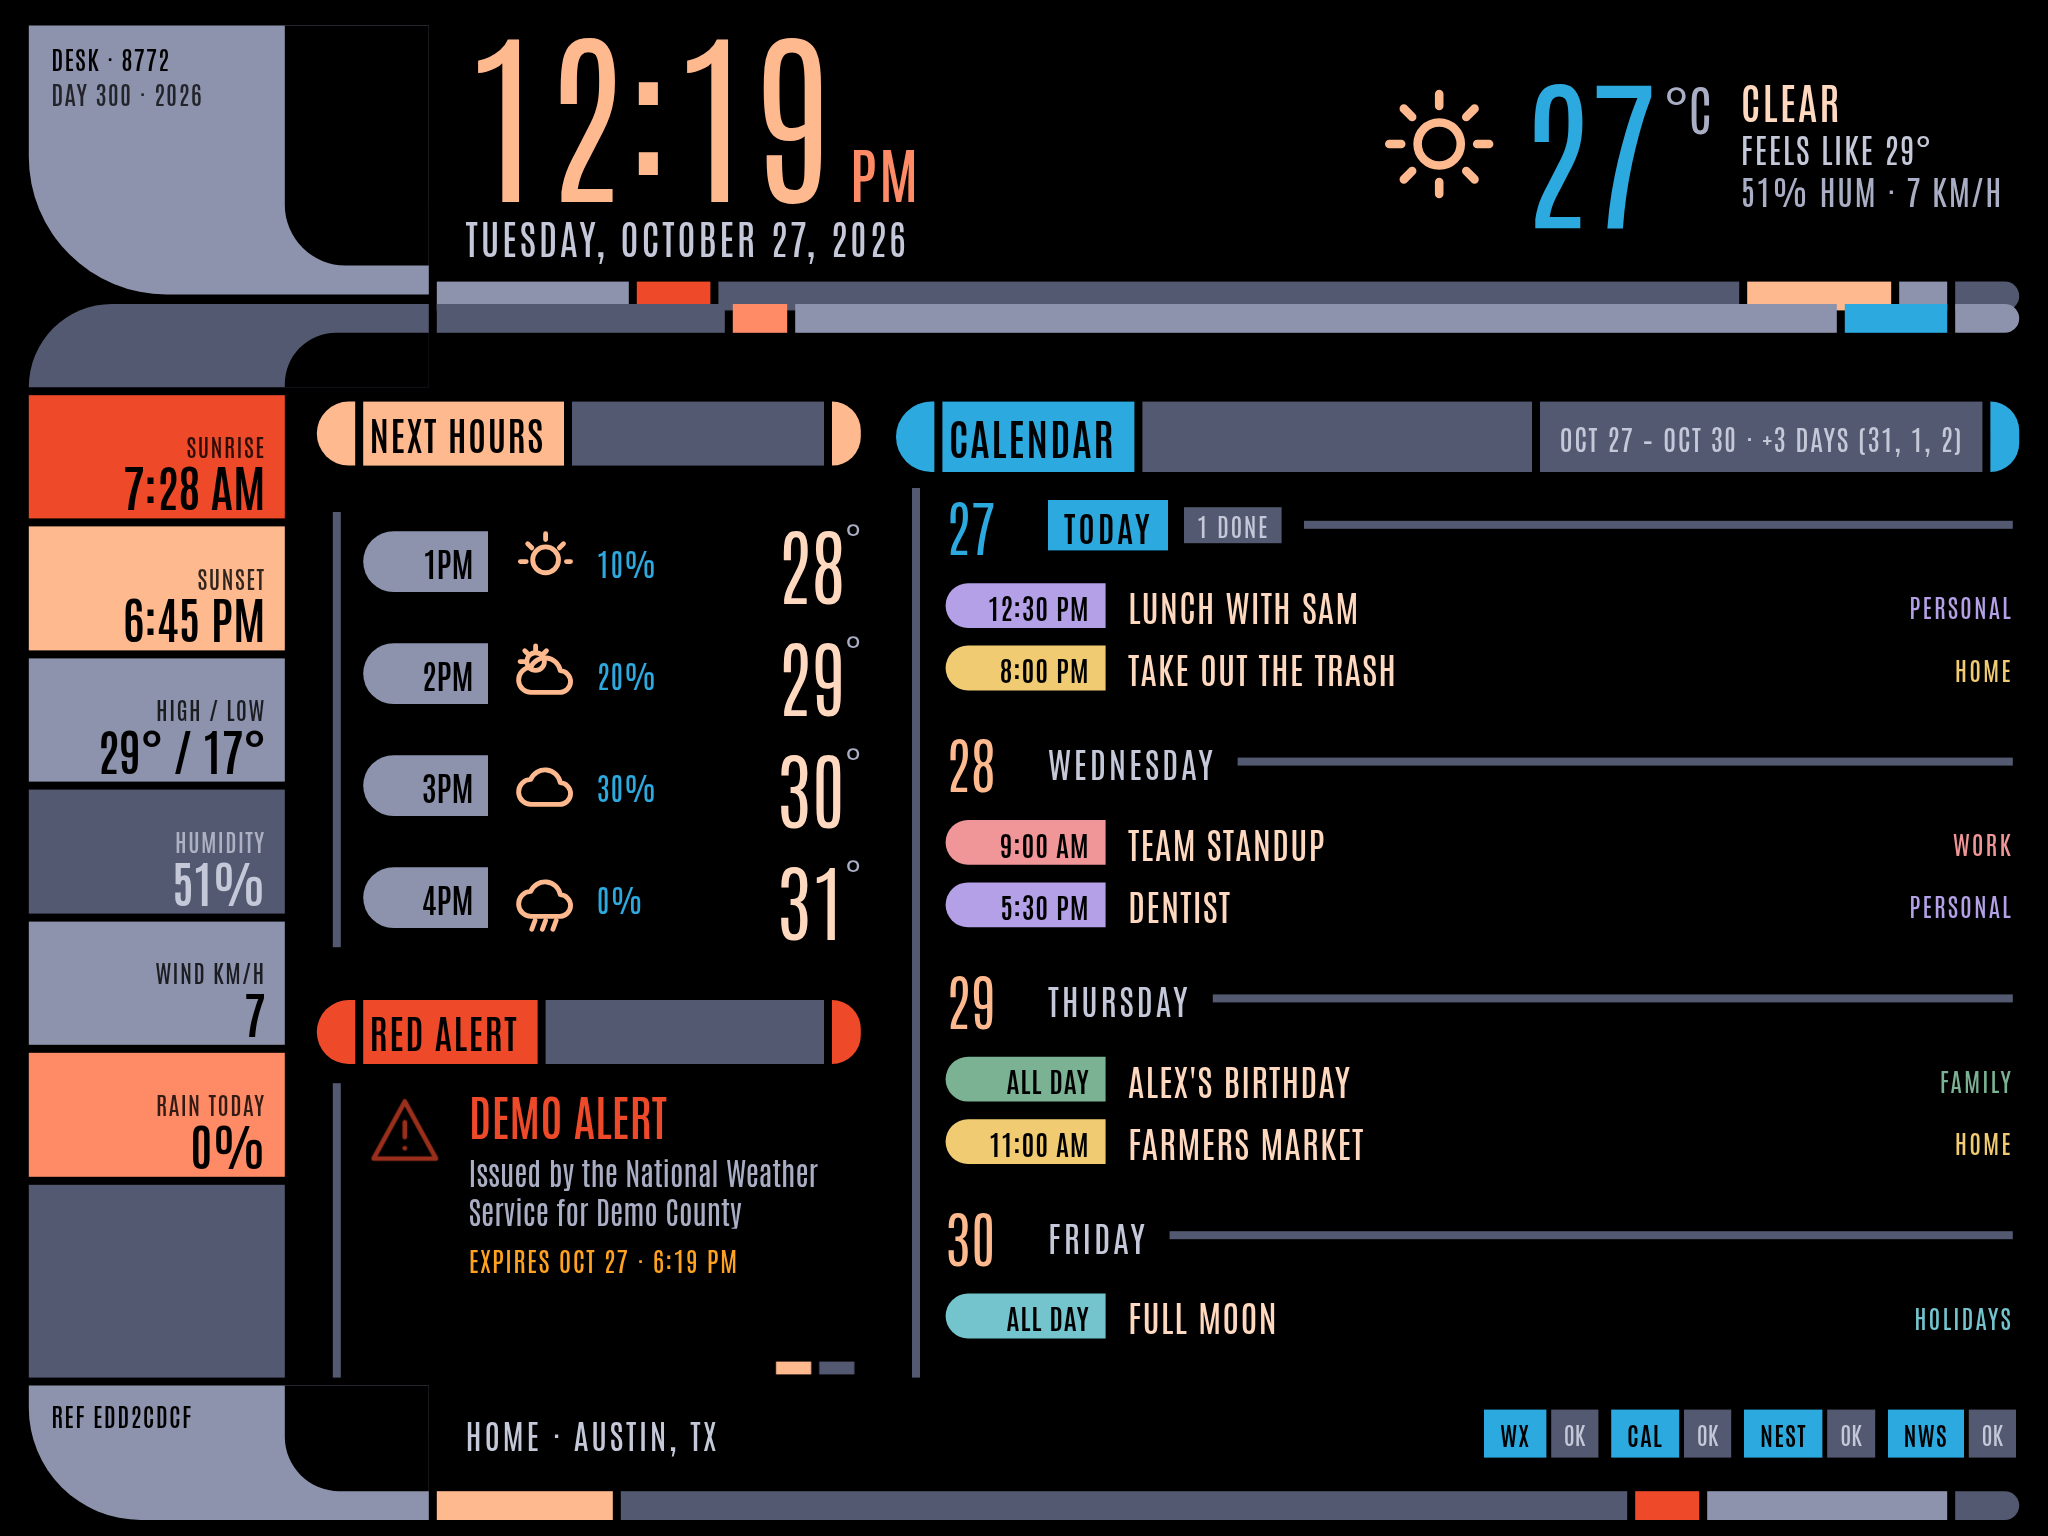
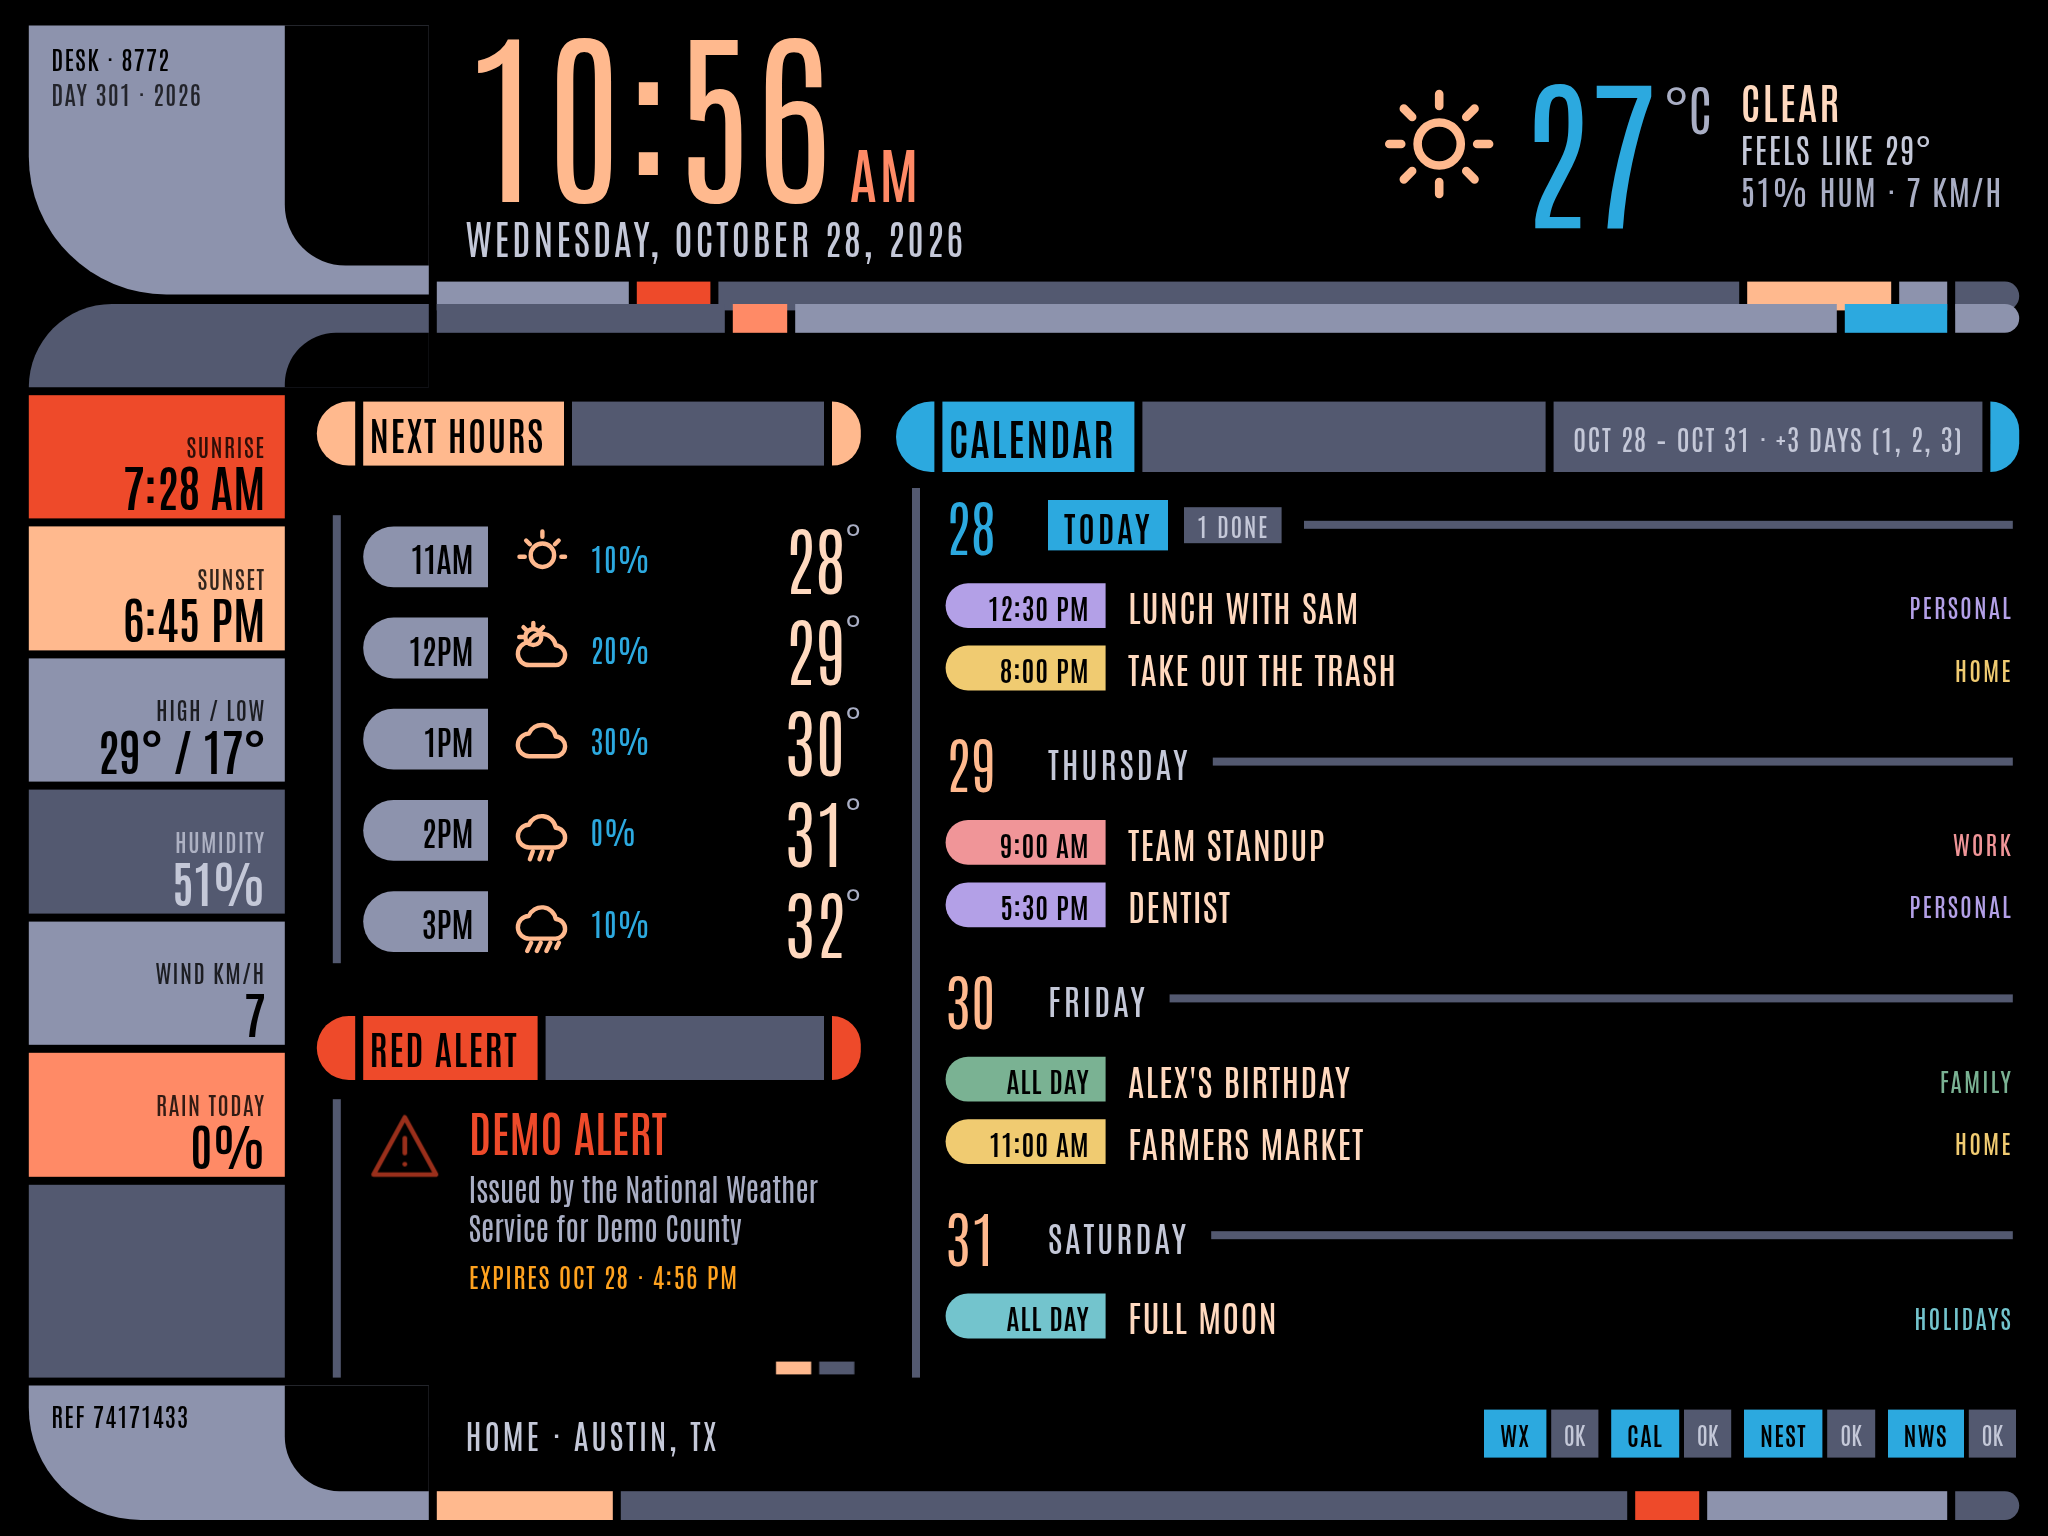
Proximas 5 horas: filas de 52 px y slot de 226 para que quepan sin modo compacto

diff --git a/web/style.css b/web/style.css
@@ -111,19 +111,19 @@ html.booting *,html.booting *::before,html.booting *::after{transition:none !imp
 /* ---------------------------------------------- columna izquierda */
 .col-left{width:340px;flex:none;display:flex;flex-direction:column;justify-content:space-between;min-height:0}
 .hourly{display:flex;flex-direction:column;margin:10px 0 0 10px;border-left:5px solid var(--gry);padding-left:14px}
-.hr{display:flex;align-items:center;height:62px;margin-bottom:8px}
+.hr{display:flex;align-items:center;height:52px;margin-bottom:5px}
 .hr:last-child{margin-bottom:0}
 .hr .h{
   width:78px;height:38px;flex:none;background:var(--lav);color:#000;font-size:21px;font-weight:600;
   display:flex;align-items:center;justify-content:flex-end;padding-right:9px;border-radius:19px 0 0 19px;
 }
-.hr .ico{width:44px;height:44px;margin-left:14px;color:var(--pch);flex:none}
+.hr .ico{width:40px;height:40px;margin-left:14px;color:var(--pch);flex:none}
 .hr .ico svg{width:100%;height:100%}
 .hr .rain{margin-left:10px;font-size:19px;color:var(--cyn);width:58px;letter-spacing:.03em}
-.hr .t{margin-left:auto;font-size:52px;font-weight:300;color:var(--ink);line-height:1}
+.hr .t{margin-left:auto;font-size:46px;font-weight:300;color:var(--ink);line-height:1}
 .hr .t i{font-style:normal;font-size:22px;color:var(--muted);vertical-align:top}
 
-.slot{position:relative;height:236px;flex:none;margin-top:14px}
+.slot{position:relative;height:226px;flex:none;margin-top:12px}
 .slot-view{position:absolute;top:0;left:0;right:0;bottom:0;opacity:0;transition:opacity .8s ease;display:flex;flex-direction:column}
 .slot-view.on{opacity:1}
 .a-col{background:var(--lav)}

diff --git a/web/index.html b/web/index.html
@@ -12,7 +12,7 @@
 <meta name="format-detection" content="telephone=no">
 <link rel="manifest" href="/manifest.webmanifest">
 <link rel="apple-touch-icon" href="/icon-180.png">
-<link rel="stylesheet" href="/style.css?v=lcars7">
+<link rel="stylesheet" href="/style.css?v=lcars9">
 </head>
 <body>
 <main class="stage" id="stage">
@@ -145,6 +145,6 @@
   </section>
 </main>
 
-<script src="/app.js?v=lcars7"></script>
+<script src="/app.js?v=lcars9"></script>
 </body>
 </html>

diff --git a/README.md b/README.md
@@ -25,7 +25,7 @@ estándar, sin dependencias) y el iPad solo abre una URL.
   humedad y viento (Open-Meteo, sin API key).
 - **Barra lateral**: amanecer, atardecer, máxima/mínima, humedad, viento y lluvia
   del día.
-- **Próximas 4 horas** con icono, probabilidad de lluvia y temperatura.
+- **Próximas 5 horas** con icono, probabilidad de lluvia y temperatura.
 - **Calendario vertical** a toda la altura de la columna, leyendo los **feeds
   iCal privados** de cada calendario (sin OAuth). La hora va en una píldora con
   el color de su calendario. **Los eventos que ya terminaron salen de la pila**
